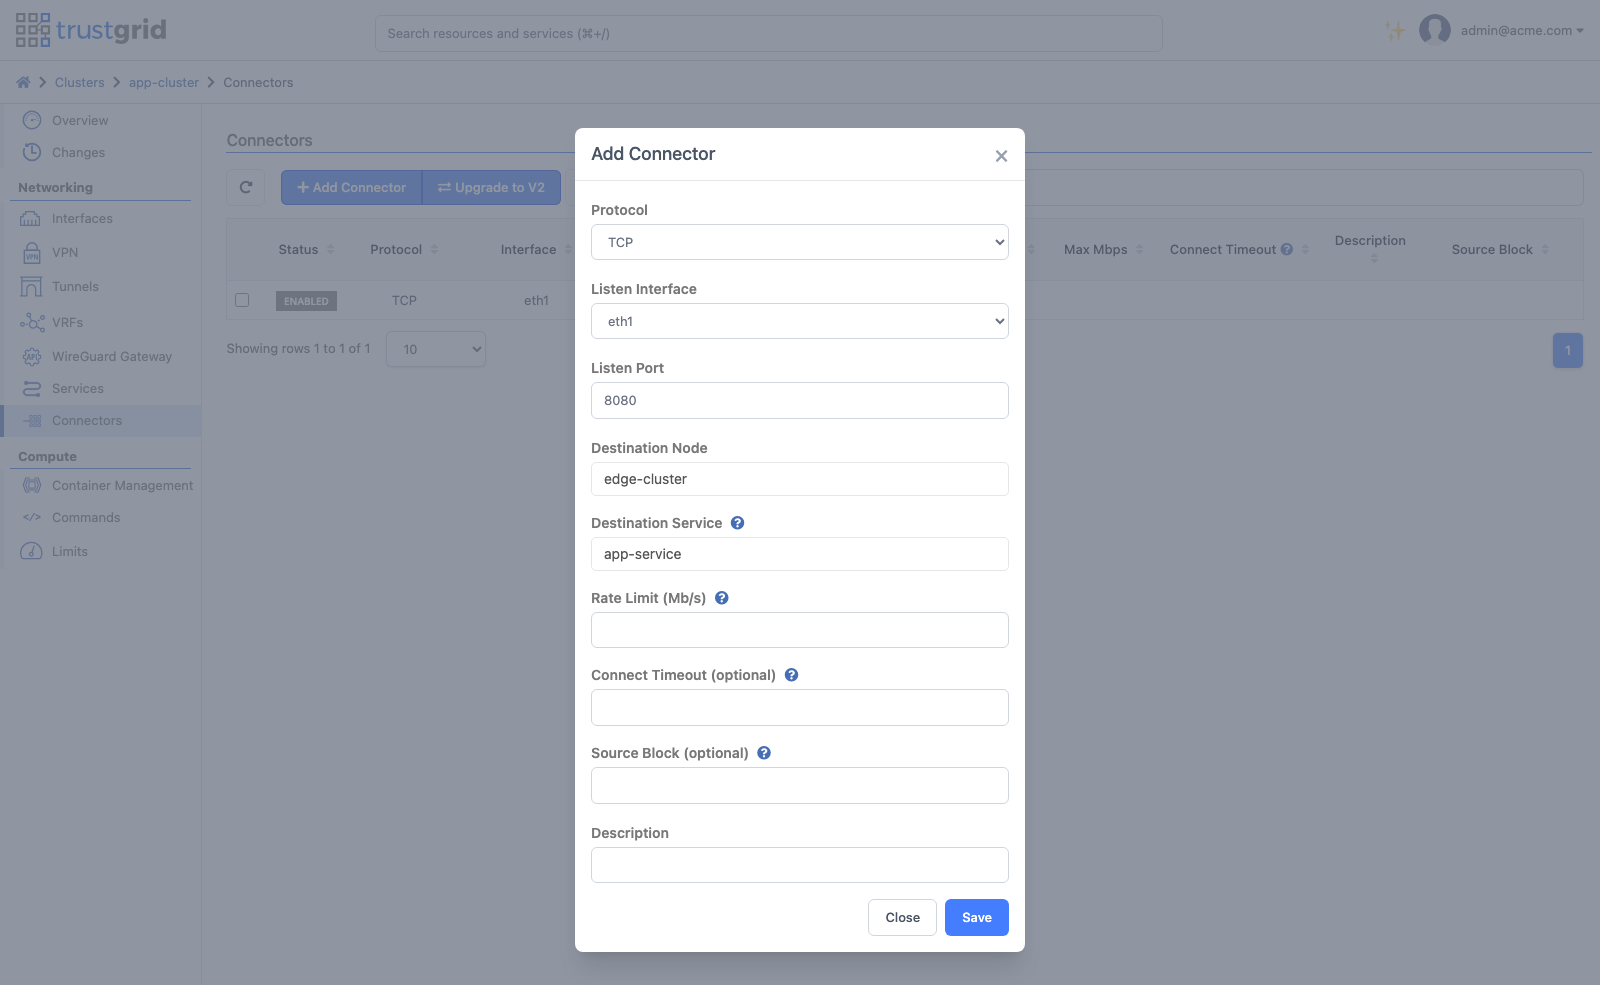
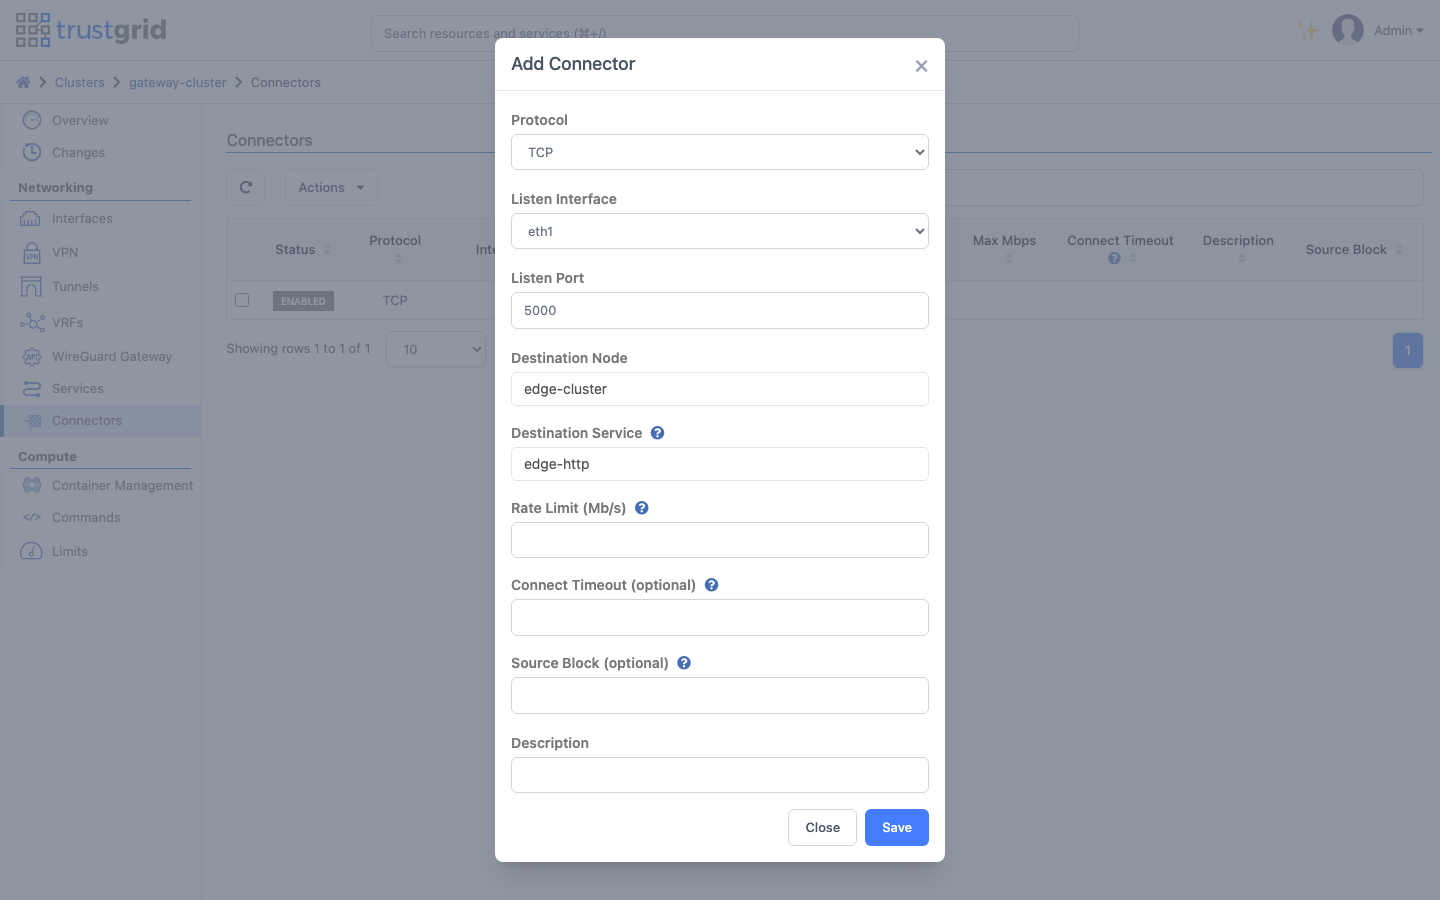
docs: make L4 cluster connector shots consistent with the page scenario
Reshoot both connector images at 1440x900 to match the service shots:
gateway-cluster / edge-cluster / edge-http on port 5000, Listen Interface
eth1. Size all four images at width=90% and correct the alt text.

diff --git a/content/en/tutorials/deployments/deploy-aws/l4-cluster/index.md b/content/en/tutorials/deployments/deploy-aws/l4-cluster/index.md
@@ -45,11 +45,11 @@ Use this pattern when clients should reach the cluster on a fixed IP:port. Set t
    - Listen Interface — set to the LAN interface where the cluster IP is configured (typically `eth1`).
    - Listen Port, Destination Node, Destination Service — set per the service being fronted.
 
-{{<tgimg src="l4-add-connector.png" alt="Connector configuration dialog with Listen Interface set to eth1, listening on port 8080 and forwarding to a remote cluster" caption="Connector configured with Listen Interface = eth1, which binds only the cluster IP" width="90%" >}}
+{{<tgimg src="l4-add-connector.png" alt="Connector configuration dialog with Listen Interface set to eth1, listening on port 5000 and forwarding to a service on the edge cluster" caption="Connector configured with Listen Interface = eth1, which binds only the cluster IP" width="90%" >}}
 
 The configured connector appears in the cluster's Connectors list:
 
-{{<tgimg src="l4-connectors-list.png" alt="Connectors list showing two TCP connectors" caption="Cluster Connectors list">}}
+{{<tgimg src="l4-connectors-list.png" alt="Connectors list showing a TCP connector on eth1, port 5000" caption="Cluster Connectors list" width="90%">}}
 
 ## Services — Stable Source IP Toward Backends
 
@@ -60,8 +60,8 @@ Use this pattern when the cluster originates connections to backends and the bac
    - Source Interface — set the interface dropdown to the LAN interface (typically `eth1`), then set the second dropdown to Use Cluster IP.
    - Host, Port, Protocol — set per the backend being reached.
 
-{{<tgimg src="l4-add-service.png" alt="Service configuration dialog with Source Interface set to eth1 and Use Cluster IP selected, forwarding to a backend on TCP 8080" caption="Service configured with Source Interface = eth1 and Use Cluster IP">}}
+{{<tgimg src="l4-add-service.png" alt="Service configuration dialog with Source Interface set to eth1 and Use Cluster IP selected, forwarding to a backend on TCP 5000" caption="Service configured with Source Interface = eth1 and Use Cluster IP" width="90%">}}
 
 The configured service appears in the cluster's Services list with the Source Interface column showing `eth1 (Use Cluster IP)`:
 
-{{<tgimg src="l4-services-list.png" alt="Services list showing one service with Source Interface eth1 (Use Cluster IP)" caption="Cluster Services list">}}
+{{<tgimg src="l4-services-list.png" alt="Services list showing one service with Source Interface eth1 (Use Cluster IP)" caption="Cluster Services list" width="90%">}}
